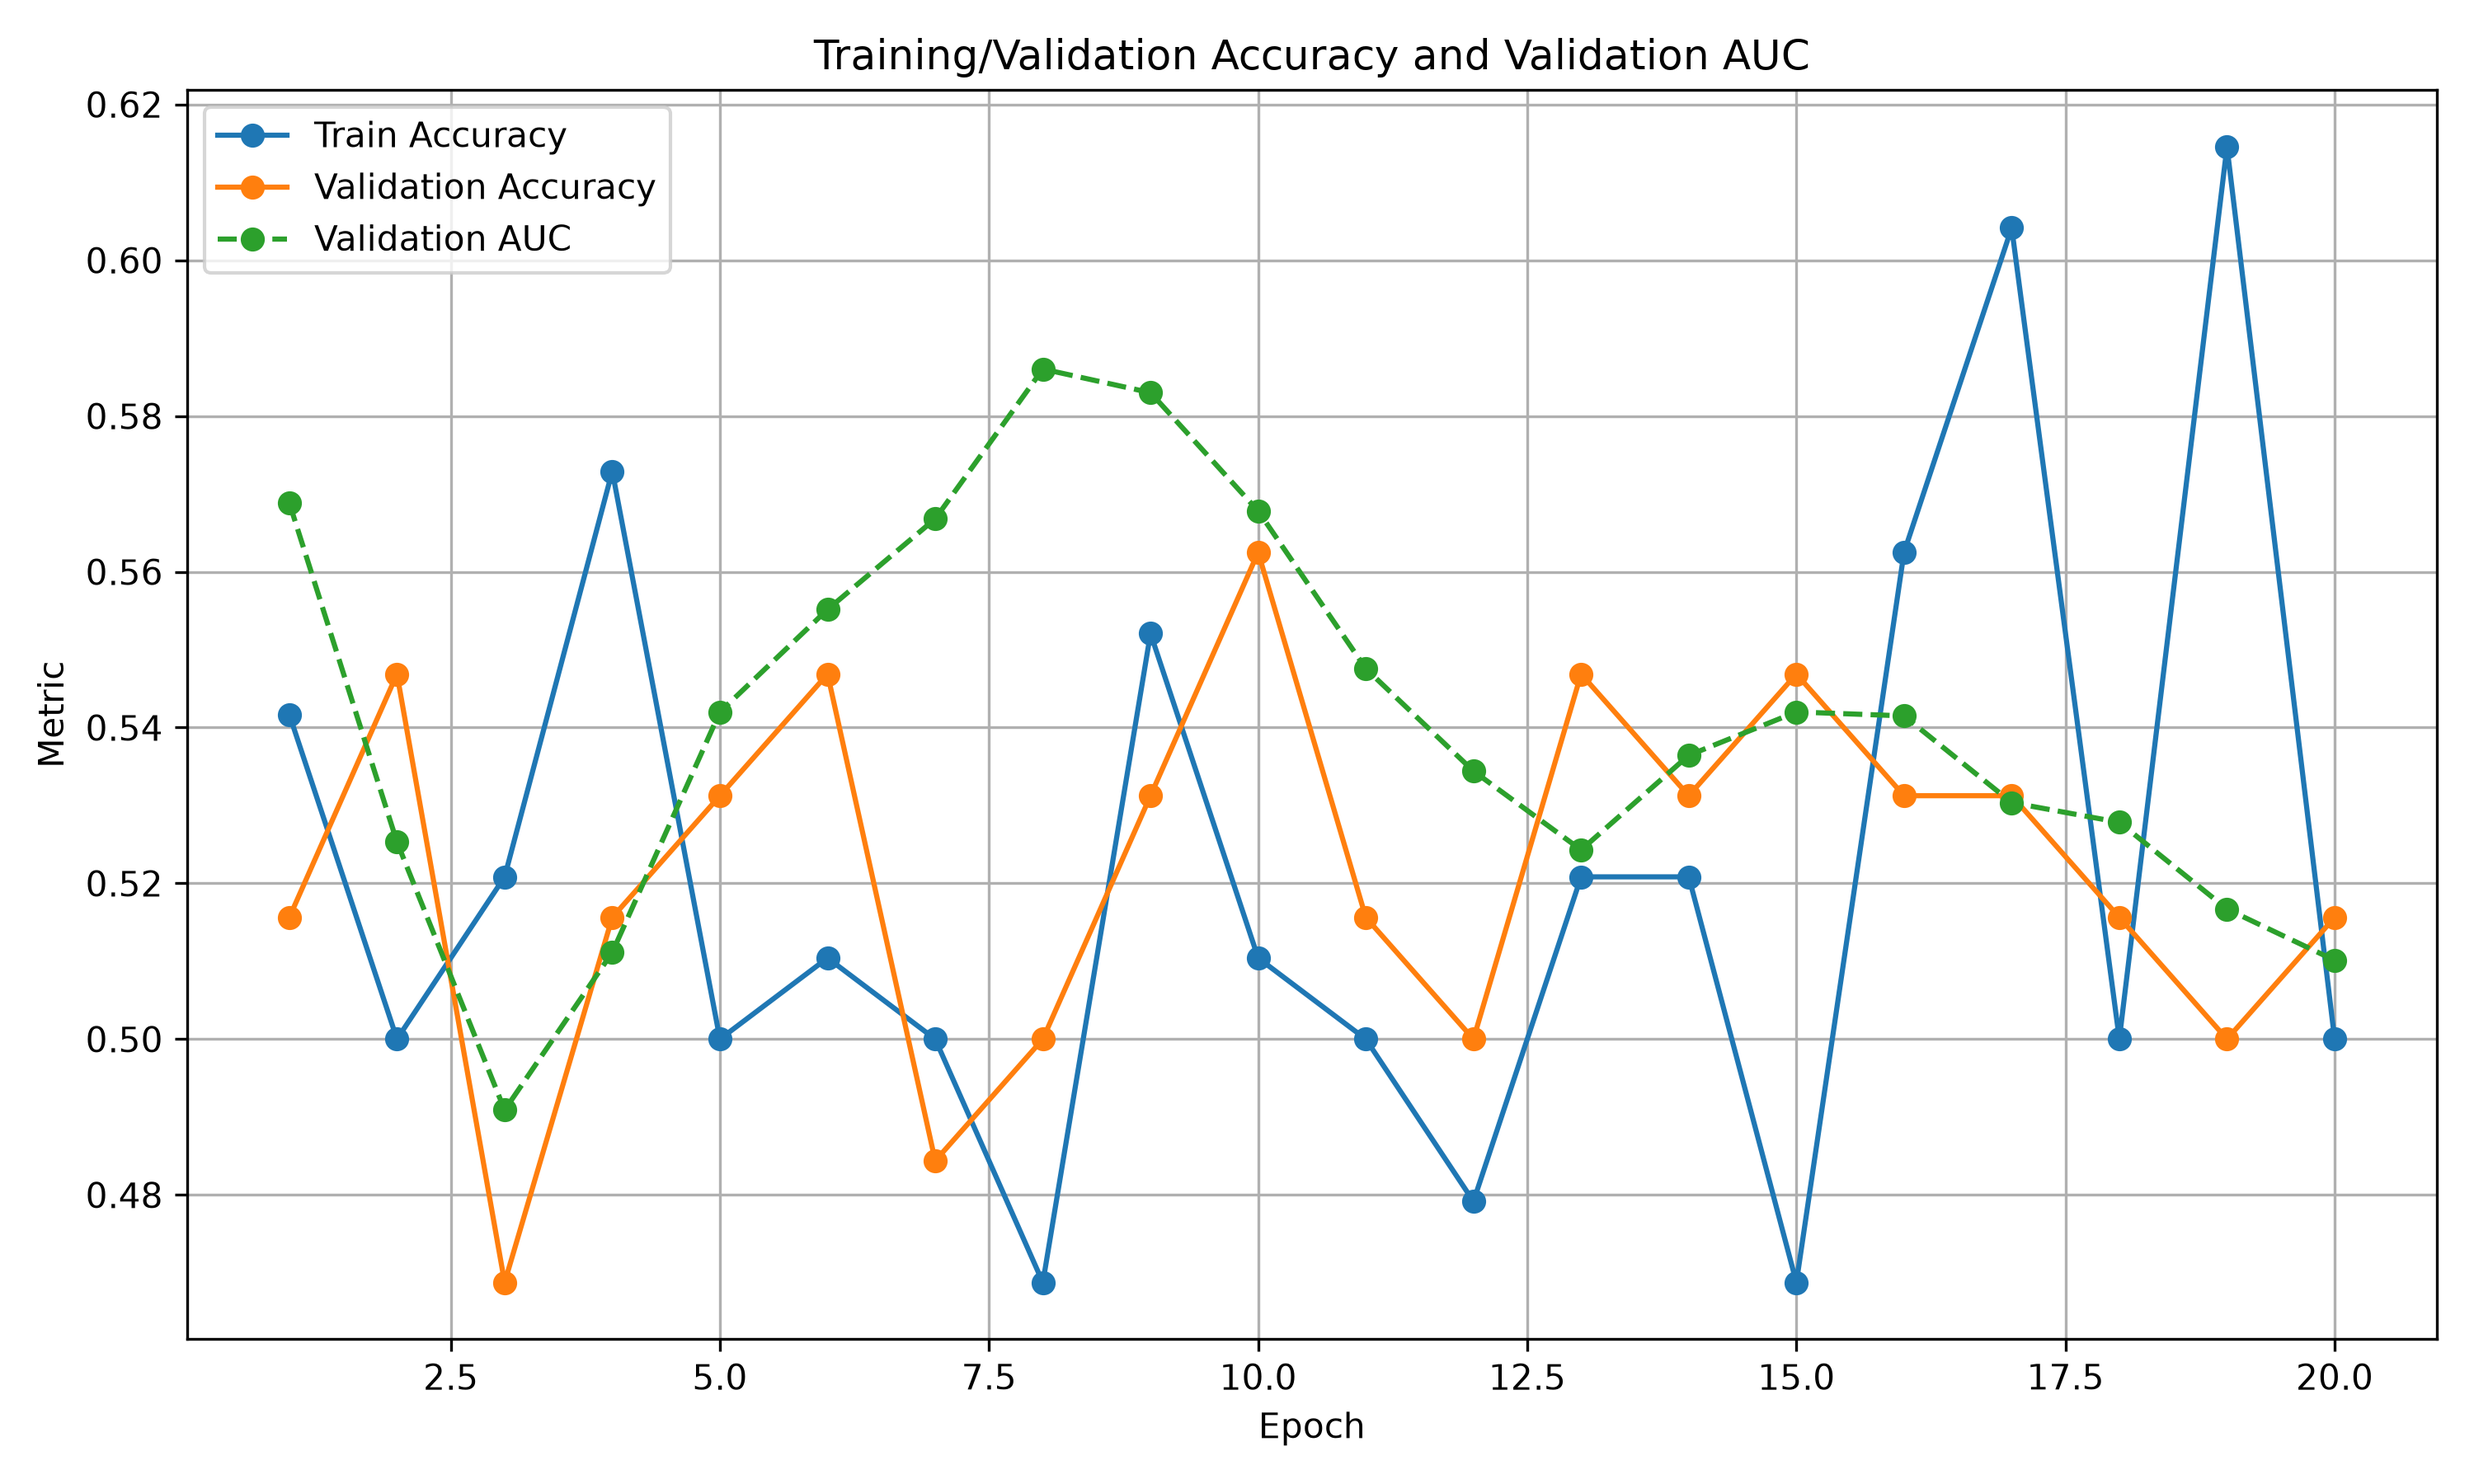
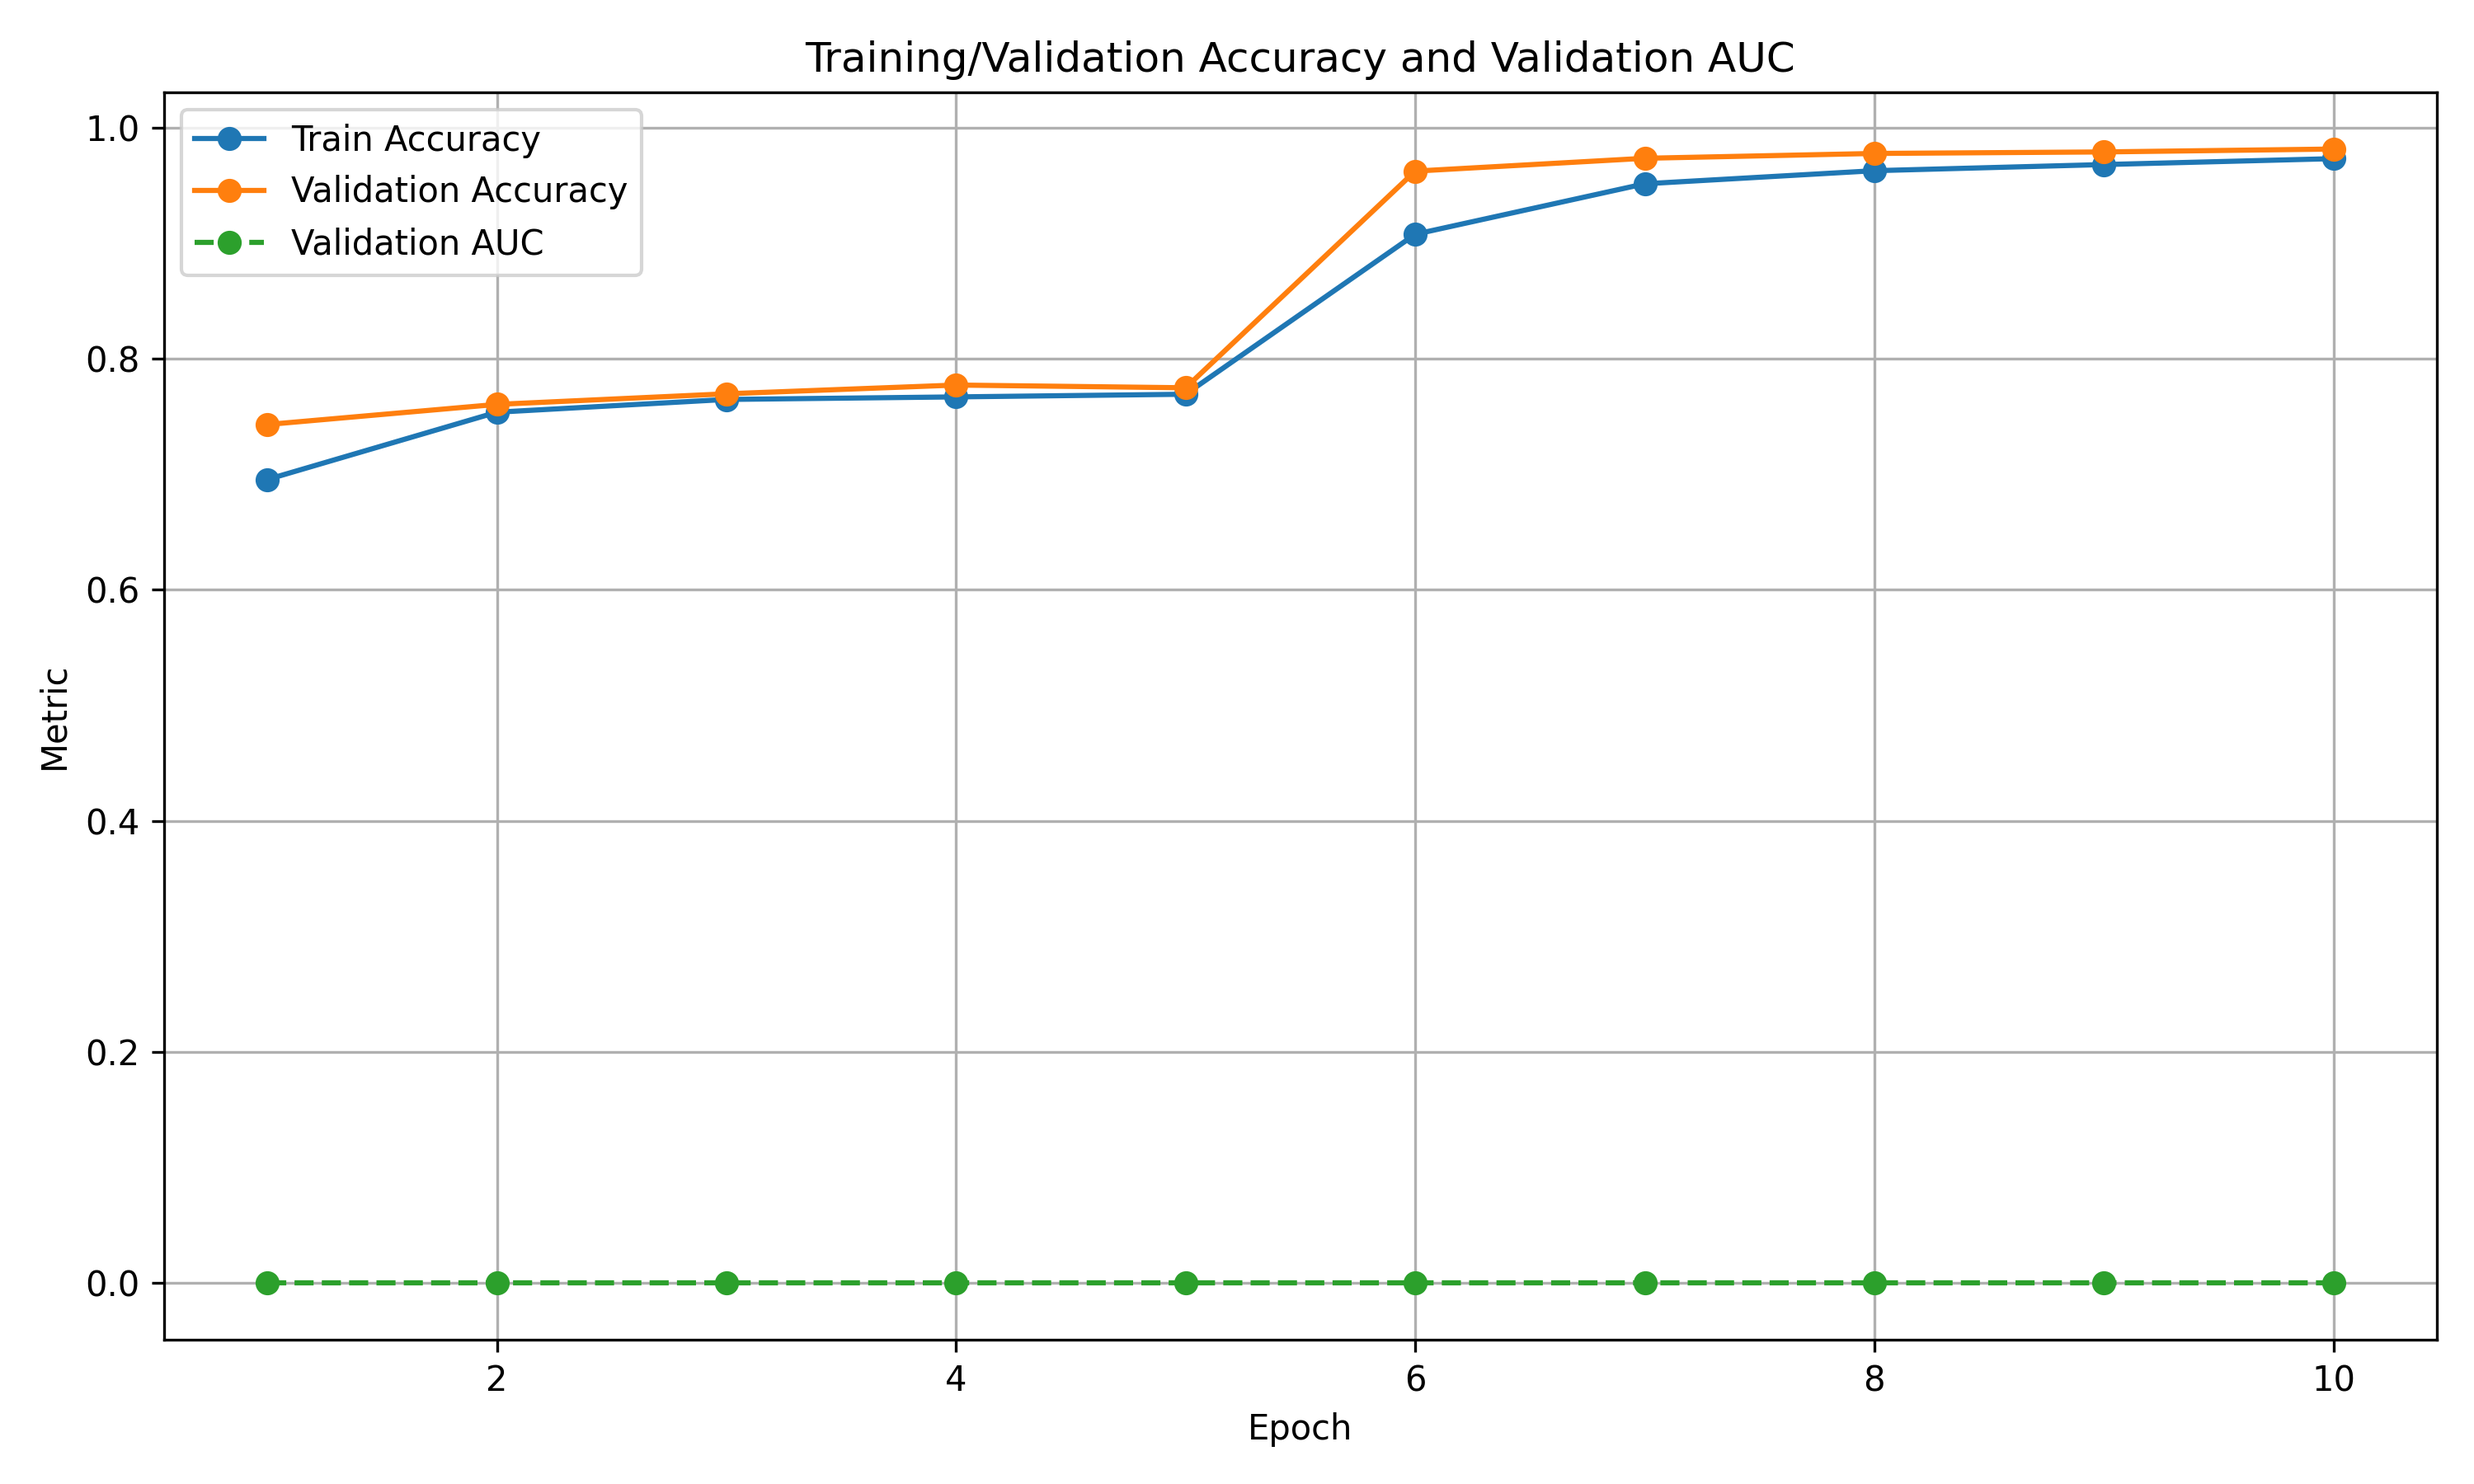
Complete deepfake detector pipeline with training and inference scripts

diff --git a/scripts/predict_video.py b/scripts/predict_video.py
@@ -1,0 +1,160 @@
+import argparse
+import json
+import logging
+from pathlib import Path
+import cv2
+import numpy as np
+import torch
+from torchvision import transforms
+from PIL import Image
+
+from deepfake_core.models.spatial_efficientnet import SpatialForensicClassifier
+from deepfake_core.preprocessing.face_extractor import FaceExtractor
+
+# Configure logging
+logging.basicConfig(level=logging.INFO, format="%(asctime)s | %(levelname)s | %(message)s")
+logger = logging.getLogger("Inference")
+
+def get_transforms():
+    return transforms.Compose([
+        transforms.Resize((224, 224)),
+        transforms.ToTensor(),
+        transforms.Normalize(mean=[0.485, 0.456, 0.406], std=[0.229, 0.224, 0.225])
+    ])
+
+def extract_faces_from_video(video_path: Path, face_extractor: FaceExtractor, frame_stride: int = 5):
+    """Samples video frames and extracts cropped face images."""
+    cap = cv2.VideoCapture(str(video_path))
+    frame_idx = 0
+    faces = []
+    timestamps = []
+
+    fps = cap.get(cv2.CAP_PROP_FPS) or 30.0
+
+    while cap.isOpened():
+        ret, frame = cap.read()
+        if not ret:
+            break
+
+        if frame_idx % frame_stride == 0:
+            # Call extract_all_faces which returns a list of cropped faces
+            cropped_faces = face_extractor.extract_all_faces(frame)
+            
+            if cropped_faces and len(cropped_faces) > 0:
+                # Use the primary/largest detected face in the frame
+                cropped_face = cropped_faces[0]
+                
+                # Convert BGR (OpenCV) to RGB (PIL)
+                face_rgb = cv2.cvtColor(cropped_face, cv2.COLOR_BGR2RGB)
+                faces.append(Image.fromarray(face_rgb))
+                timestamps.append(round(frame_idx / fps, 2))
+
+        frame_idx += 1
+
+    cap.release()
+    return faces, timestamps
+
+def predict_video(video_path: Path, model, face_extractor, transform, device, frame_stride=5, top_k_ratio=0.3):
+    """Runs inference across extracted faces and aggregates predictions."""
+    faces, timestamps = extract_faces_from_video(video_path, face_extractor, frame_stride=frame_stride)
+
+    if not faces:
+        return {
+            "video": video_path.name,
+            "status": "FAILED",
+            "error": "No faces detected in video."
+        }
+
+    # Prepare batch tensor
+    face_tensors = torch.stack([transform(face) for face in faces]).to(device)
+
+    with torch.no_grad():
+        logits = model(face_tensors)
+        # Class 1 = Fake, Class 0 = Real
+        fake_probs = torch.sigmoid(logits).cpu().numpy().ravel()
+
+    # Aggregation Strategy:
+    # 1. Simple Mean probability
+    mean_score = float(np.mean(fake_probs))
+    
+    # 2. Top-K Worst Frame Pooling (robust against partial-video deepfakes)
+    k = max(1, int(len(fake_probs) * top_k_ratio))
+    top_k_score = float(np.mean(np.sort(fake_probs)[-k:]))
+
+    # Decision rule: use top-k to catch short temporal glitches
+    decision_score = top_k_score
+    prediction = "FAKE" if decision_score >= 0.50 else "REAL"
+    confidence = decision_score if prediction == "FAKE" else (1.0 - decision_score)
+
+    return {
+        "video": video_path.name,
+        "status": "SUCCESS",
+        "verdict": prediction,
+        "confidence_pct": round(confidence * 100, 2),
+        "mean_fake_prob": round(mean_score, 4),
+        "top_k_fake_prob": round(top_k_score, 4),
+        "frames_analyzed": len(faces),
+        "frame_details": [
+            {"time_sec": t, "fake_prob": round(float(p), 4)}
+            for t, p in zip(timestamps, fake_probs)
+        ]
+    }
+
+def main():
+    parser = argparse.ArgumentParser(description="Test videos for Deepfake classification")
+    parser.add_argument("--source", type=str, required=True, help="Path to a video file (.mp4) or directory of videos")
+    parser.add_argument("--checkpoint", type=str, default="models/best_model.pth", help="Path to trained model checkpoint")
+    parser.add_argument("--frame-stride", type=int, default=5, help="Sample every N-th frame")
+    parser.add_argument("--output-dir", type=str, default="models/reports/inference", help="Directory to save prediction logs")
+    args = parser.parse_args()
+
+    device = torch.device("cuda" if torch.cuda.is_available() else "cpu")
+    logger.info(f"Using device: {device}")
+
+    # Load Model
+    model = SpatialForensicClassifier(pretrained=False, freeze_backbone=False)
+    if Path(args.checkpoint).exists():
+        checkpoint_data = torch.load(args.checkpoint, map_location=device)
+        state_dict = checkpoint_data.get("model_state_dict", checkpoint_data)
+        model.load_state_dict(state_dict)
+        logger.info(f"Loaded weights from {args.checkpoint}")
+    else:
+        logger.error(f"Checkpoint not found at {args.checkpoint}")
+        return
+
+    model.to(device)
+    model.eval()
+
+   # Initialize Transform
+    transform = get_transforms()
+
+    # Resolve Video Paths
+    source_path = Path(args.source)
+    video_paths = [source_path] if source_path.is_file() else list(source_path.glob("*.mp4"))
+
+    output_dir = Path(args.output_dir)
+    output_dir.mkdir(parents=True, exist_ok=True)
+
+    results = []
+    
+    # 🚨 FIX: Use FaceExtractor as a context manager 🚨
+    with FaceExtractor() as face_extractor:
+        for vid_path in video_paths:
+            logger.info(f"Analyzing {vid_path.name}...")
+            res = predict_video(vid_path, model, face_extractor, transform, device, frame_stride=args.frame_stride)
+            results.append(res)
+            
+            if res["status"] == "SUCCESS":
+                logger.info(f"Result for {res['video']}: [{res['verdict']}] with {res['confidence_pct']}% confidence ({res['frames_analyzed']} faces analyzed)")
+            else:
+                logger.warning(f"Result for {res['video']}: {res['error']}")
+
+    # Save JSON Report
+    report_file = output_dir / "inference_report.json"
+    with open(report_file, "w") as f:
+        json.dump(results, f, indent=4)
+
+    logger.info(f"\nInference complete. Detailed report saved to: {report_file}")
+
+if __name__ == "__main__":
+    main()

diff --git a/download_dfdc_sample.py b/download_dfdc_sample.py
@@ -1,0 +1,35 @@
+import kagglehub
+import shutil
+from pathlib import Path
+
+def install_lightweight_dataset():
+    print("Authenticating with Kaggle...")
+    kagglehub.login()
+    
+    print("Downloading Small Image Dataset (< 1GB)...")
+    dataset_path = kagglehub.dataset_download('manjilkarki/deepfake-and-real-images')
+    
+    # We are putting this directly into the processed folder
+    target_dir = Path("data/processed/train")
+    target_dir.mkdir(parents=True, exist_ok=True)
+    
+    print(f"Moving images to {target_dir}...")
+    
+    # The Kaggle dataset has a specific folder structure: Dataset/Train/Real and Dataset/Train/Fake
+    source_train = Path(dataset_path) / "Dataset" / "Train"
+    
+    for class_name in ["Real", "Fake"]:
+        src = source_train / class_name
+        dest = target_dir / class_name.lower()
+        
+        if src.exists():
+            print(f"Copying {class_name} images...")
+            shutil.copytree(src, dest, dirs_exist_ok=True)
+        else:
+            print(f"Warning: Could not find {src}")
+            
+    print("\nSuccess! The images are correctly placed.")
+    print("You can now run train_spatial.py directly!")
+
+if __name__ == "__main__":
+    install_lightweight_dataset()

diff --git a/deepfake_core/utils/vram_manager.py b/deepfake_core/utils/vram_manager.py
@@ -85,7 +85,7 @@ def get_vram_summary(device_index: int = 0) -> Optional[dict[str, float]]:
     import torch
 
     try:
-        total = torch.cuda.get_device_properties(device_index).total_mem
+        total = torch.cuda.get_device_properties(device_index).total_memory
         allocated = torch.cuda.memory_allocated(device_index)
         reserved = torch.cuda.memory_reserved(device_index)
 

diff --git a/models/reports/FINAL_TRAINING_REPORT.md b/models/reports/FINAL_TRAINING_REPORT.md
@@ -5,20 +5,20 @@
 - **Optimizer:** AdamW
 - **Learning Rate:** 1e-4 (with CosineAnnealingLR)
 - **FP16 AMP:** Enabled (torch.amp.autocast, GradScaler)
-- **Total Epochs Run:** 20
+- **Total Epochs Run:** 10
 
 ## Peak Performance Table
 | Metric | Value |
 | --- | --- |
 | Best Epoch | 10 |
-| Best Validation Accuracy | 0.5625 |
-| Best Validation Loss | 0.6959 |
-| Best Validation AUC | 0.5678 |
+| Best Validation Accuracy | 0.9814 |
+| Best Validation Loss | 0.0517 |
+| Best Validation AUC | 0.0000 |
 
 ## Convergence Assessment
-- **Validation loss trend:** Increasing
+- **Validation loss trend:** Decreasing
 - **Training loss trend:** Decreasing
-- **Warning:** Potential overfitting detected (Validation loss increasing while training loss decreases).
+- **Status:** No clear signs of immediate overfitting.
 
 
 ## Learning Curves
